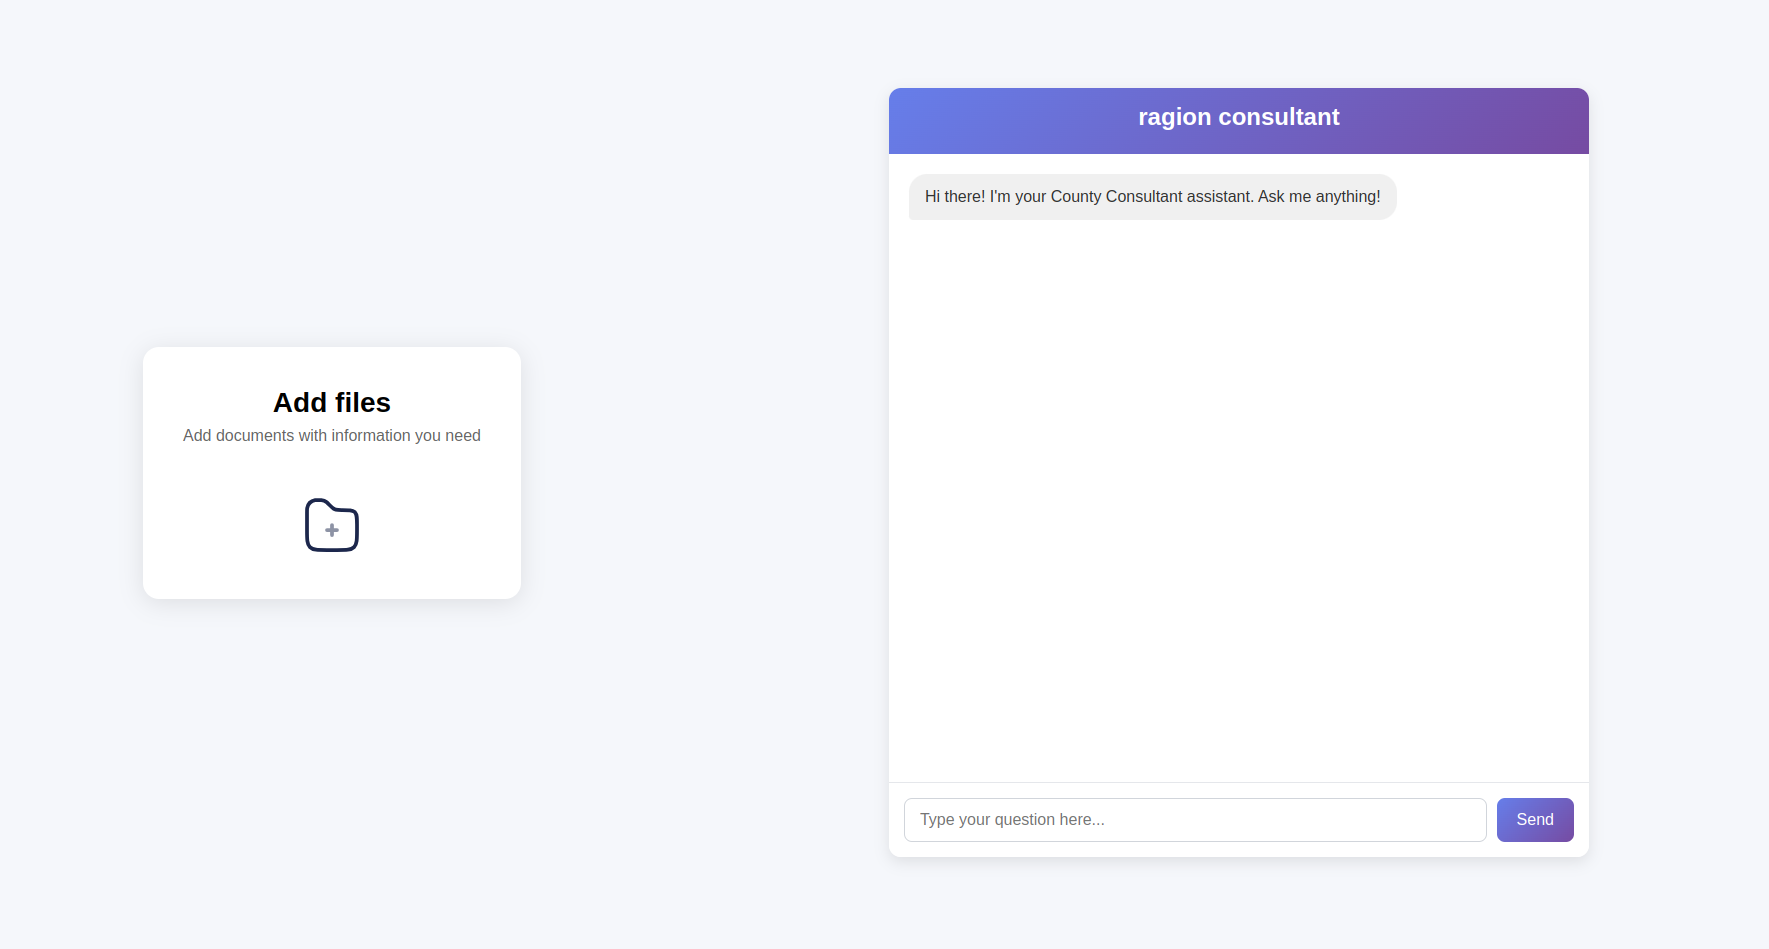
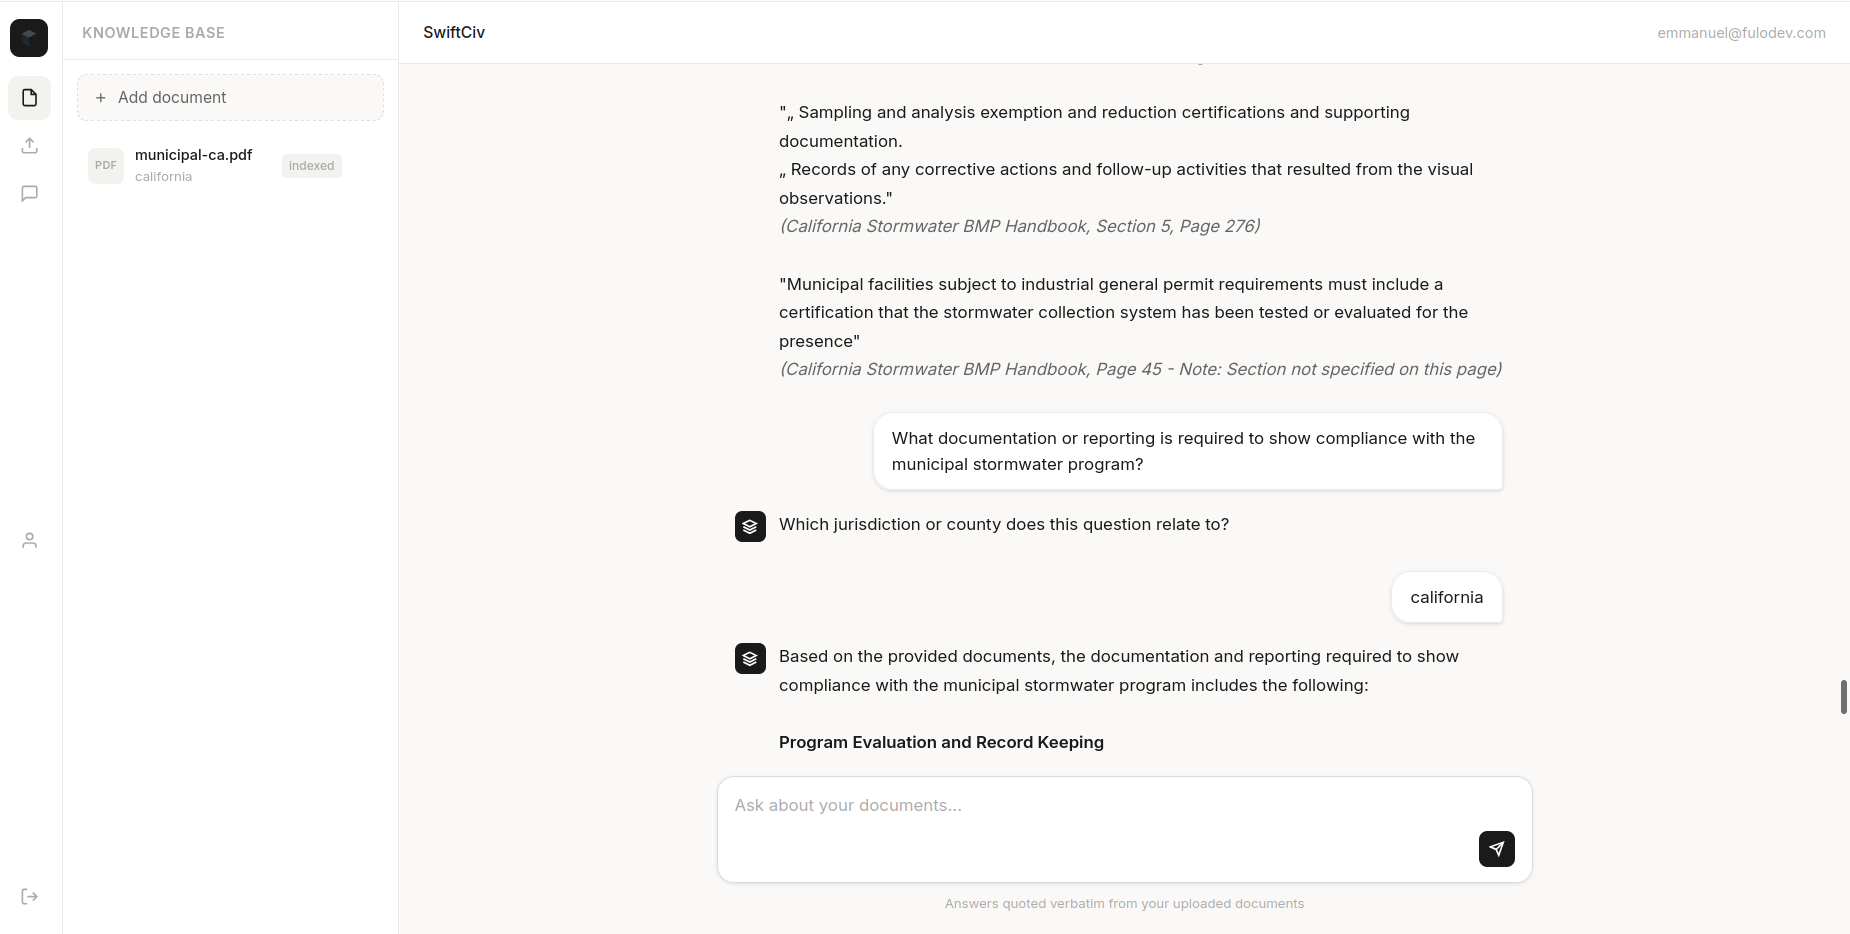
updating readme

diff --git a/README.md b/README.md
@@ -1,141 +1,121 @@
-# Ragion
+# SwiftCiv
 
-A smart, AI-powered document search and retrieval tool for civil engineers  
-_Efficiently find codes, regulations, and technical manuals—no more manual digging or outdated notes._
+A RAG SaaS for civil engineers. Upload county manuals and design standards, ask regulatory questions in plain English, and get verbatim quotes with section and page citations.
+
+Previously Ragion. Live at [swiftciv.com](https://swiftciv.com).
+
+[Blog / design document](https://osasufyi.notion.site/SwiftCiv-Design-Document-33548366ce84800da6d1fda999774757)
 
 ---
 
 ![Project Screenshot](static/images/screen-shot.png "A screenshot of the application")
 
-- [Blog Post: Project Design Document](https://fulphrone.netlify.app/blog/ragion/) — Further discussion about some of the issues I faced with the project.
-
 ## Table of Contents
 
 - [Overview](#overview)
-- [Motivation](#motivation)
+- [The problem](#the-problem)
 - [Features](#features)
-- [How It Works](#how-it-works)
-- [Tech Stack](#tech-stack)
-- [Getting Started](#getting-started)
+- [How it works](#how-it-works)
+- [Tech stack](#tech-stack)
+- [Getting started](#getting-started)
 - [Demo](#demo)
 - [Roadmap](#roadmap)
-  <!-- - [Contributing](#contributing) -->
-  <!-- - [License](#license) -->
 
 ---
 
 ## Overview
 
-**Ragion** is a web application designed to streamline the daily workflow of civil engineers by making it fast and easy to search, retrieve, and reference technical documents such as land development codes, ordinances, and stormwater design manuals.  
-It automates what used to be a tedious process eliminating the need to manually browse OneNote, PDFs, or scattered files.
+**SwiftCiv** is a production RAG application for civil engineers. Users upload PDFs (county manuals, stormwater standards, land development codes), ask questions in plain English, and receive answers that quote the source document verbatim with section number and page citation.
+
+Jurisdiction is detected from the document. Quotes and page citations are enforced in the system prompt. Documents are private and persist across sessions.
 
 ---
 
-## Motivation
+## The problem
 
-Civil engineers spend significant time searching for up-to-date codes, regulations, and technical standards.  
-Existing solutions (like shared OneNote notebooks or manual PDF search) are hard to maintain, error-prone, and inefficient—especially when information is updated or phrased differently than expected.
+Engineers already try to use ChatGPT for code lookups. Making it reliable takes prompt engineering, maintenance, and it still forgets rules between sessions.
 
-**Ragion** solves this by providing:
+SwiftCiv does this out of the box:
 
-- Instant, accurate search across all your technical documents
-- Context-aware retrieval, so you find what you need even if you don’t remember the exact wording
-- Source citations for every result, so you know exactly where the information comes from
+- Jurisdiction detected from the document — no prompting
+- Verbatim quotes enforced — the model cannot paraphrase
+- Page citations always included
+- Upload once, query forever
+- Works correctly from the first question
 
 ---
 
 ## Features
 
-- **AI-Powered Query Response:**  
-  Enter questions in your own words; the system uses a Large Language Model (currently Google Gemini) with LangChain and Pinecone to interpret your query and retrieve relevant information from indexed documents.
-- **Cited Answers:**  
-  Responses are generated based on the most relevant document chunks and include citations or references to the original sources where possible.
-- **Jurisdiction Filtering:**  
-  Filter results by county or regulation type for precise answers.
-- **Real-Time Progress:**  
-  See upload and indexing progress instantly in the UI.
-- **Easy Upload:**  
-  Add new manuals or codes via a simple drag-and-drop interface.
-- **Scalable Backend:**  
-  Built to handle large document sets and multiple users.
+- Magic-link auth after Stripe checkout (£97/month) — no password
+- PDF upload with real-time indexing progress
+- Automatic jurisdiction detection from the first pages of the document
+- Conversational search with verbatim quotes and page citations
+- Source-backed answers from the user's private document set
+- Chat history with cursor-based pagination
+- Document status pills: processing, indexed, deleting
+- Account page: plan, billing date, cancel / reactivate / update card
+- Feedback via Telegram
 
 ---
 
-## How It Works
+## How it works
 
-1. **Upload Documents:**  
-   Civil engineers or admins upload technical documents (PDFs, manuals, codes).
+1. User signs up via Stripe and logs in with a magic link (AWS SES).
+2. They upload a PDF. SwiftCiv hashes it (reject duplicates), stores it on Hetzner S3, and queues indexing.
+3. A Celery worker chunks the document (1200 chars, 600 overlap), embeds it, and writes vectors to a private Pinecone namespace with deterministic IDs.
+4. Jurisdiction is inferred from the first three pages via Gemini.
+5. On a question, the app retrieves `k=15` chunks and the LLM returns a quoted answer with section and page.
+6. Messages are saved idempotently using the Celery `task_id`.
 
-2. **Automated Indexing:**  
-   Documents are split into context-preserving chunks, enriched with metadata (like jurisdiction), and indexed for fast retrieval using Pinecone.
-
-3. **AI-Powered Query Response:**  
-   Users enter questions in their own words.  
-   The system uses a Large Language Model (currently Google Gemini), orchestrated with LangChain and Pinecone, to interpret the user’s query and retrieve relevant information from the indexed documents.  
-   Responses are generated by the LLM based on the most relevant document chunks, and include citations or references to the original sources where possible.
-
-> **Note:**  
-> The current implementation relies on an LLM (Google Gemini) for interpreting queries and generating responses. While this enables flexible, conversational search, it may not always return the correct quotes from source documents. Future versions may explore pure NLP and semantic search for stricter retrieval and quoting to improve performance.
+Deletion spans PostgreSQL, Pinecone, and S3. Failures retry with backoff; stuck jobs are requeued and alerted on Telegram.
 
 ---
 
-## Tech Stack
+## Tech stack
 
-- **Frontend:** HTML, CSS, JavaScript
-- **Backend:** Python Flask
-- **Search/Indexing:** Pinecone (vector database), LangChain
-- **AI/NLP:** Google Gemini (LLM)
-- **Task Queue:** Celery
-- **Progress Tracking:** Redis
+- **Frontend:** HTML, CSS, JavaScript, Jinja2
+- **Backend:** Flask, Gunicorn, Caddy
+- **Auth:** magic links (`itsdangerous`), AWS SES
+- **Payments:** Stripe (checkout, webhooks, billing portal)
+- **Database:** PostgreSQL (SQLAlchemy)
+- **Search / RAG:** Pinecone, LangChain, Google Gemini
+- **Storage:** Hetzner S3
+- **Queue / progress:** Celery, Redis
+- **Deploy:** Hetzner VPS (Ubuntu 24), Docker / Disco, Let's Encrypt via Caddy
+- **Alerts:** Telegram
 
 ---
 
-## Getting Started
+## Getting started
 
-1. **Clone the repository**
-2. **Install backend dependencies**
-
+```Bash
+git clone <https://github.com/emmanueluwa/ragion.git>
+cd <repo>
 pip install -r requirements.txt
+```
 
-4. **Set up environment variables** (see `.env.example`)
-5. **Start backend server**
+Copy .env.example to .env and fill in keys (Gemini, Pinecone, Stripe, SES, Redis, Postgres, S3).
 
+```Bash
 python app.py
+```
 
-Run celery with the following command in another terminal
+In another terminal:
 
+```Bash
 celery -A tasks worker --loglevel=info
+```
 
-6. **Upload documents and start searching!**
+Upload a PDF and ask a regulatory question.
 
-<!-- > _Detailed setup and deployment instructions coming soon._ -->
-
----
-
-## Demo
-
-[![Watch the demo](static/images/ragion-yt-thumbnail.png)](https://www.youtube.com/watch?v=mlRw6PO-Dok)
-
----
+# Demo
 
 ## Roadmap
 
-- Improve search accuracy and context retrieval
-- Add more document types and support for additional jurisdictions
-- Enhance the UI for better user experience
-- Explore using traditional NLP for even lighter, faster search where possible
-
----
-
-<!-- ## Contributing
-
-Contributions are welcome!
-If you have ideas, find a bug, or want to help improve Ragion, please open an issue or submit a pull request. -->
-
-<!-- ---
-
-## License
-
-MIT License
-
---- -->
+Inline PDF viewer on citation click
+Chat history search
+Team accounts and shared knowledge bases
+Multi-document / multi-county compare
+Managed Postgres + backups
+GitHub Actions CI/CD
